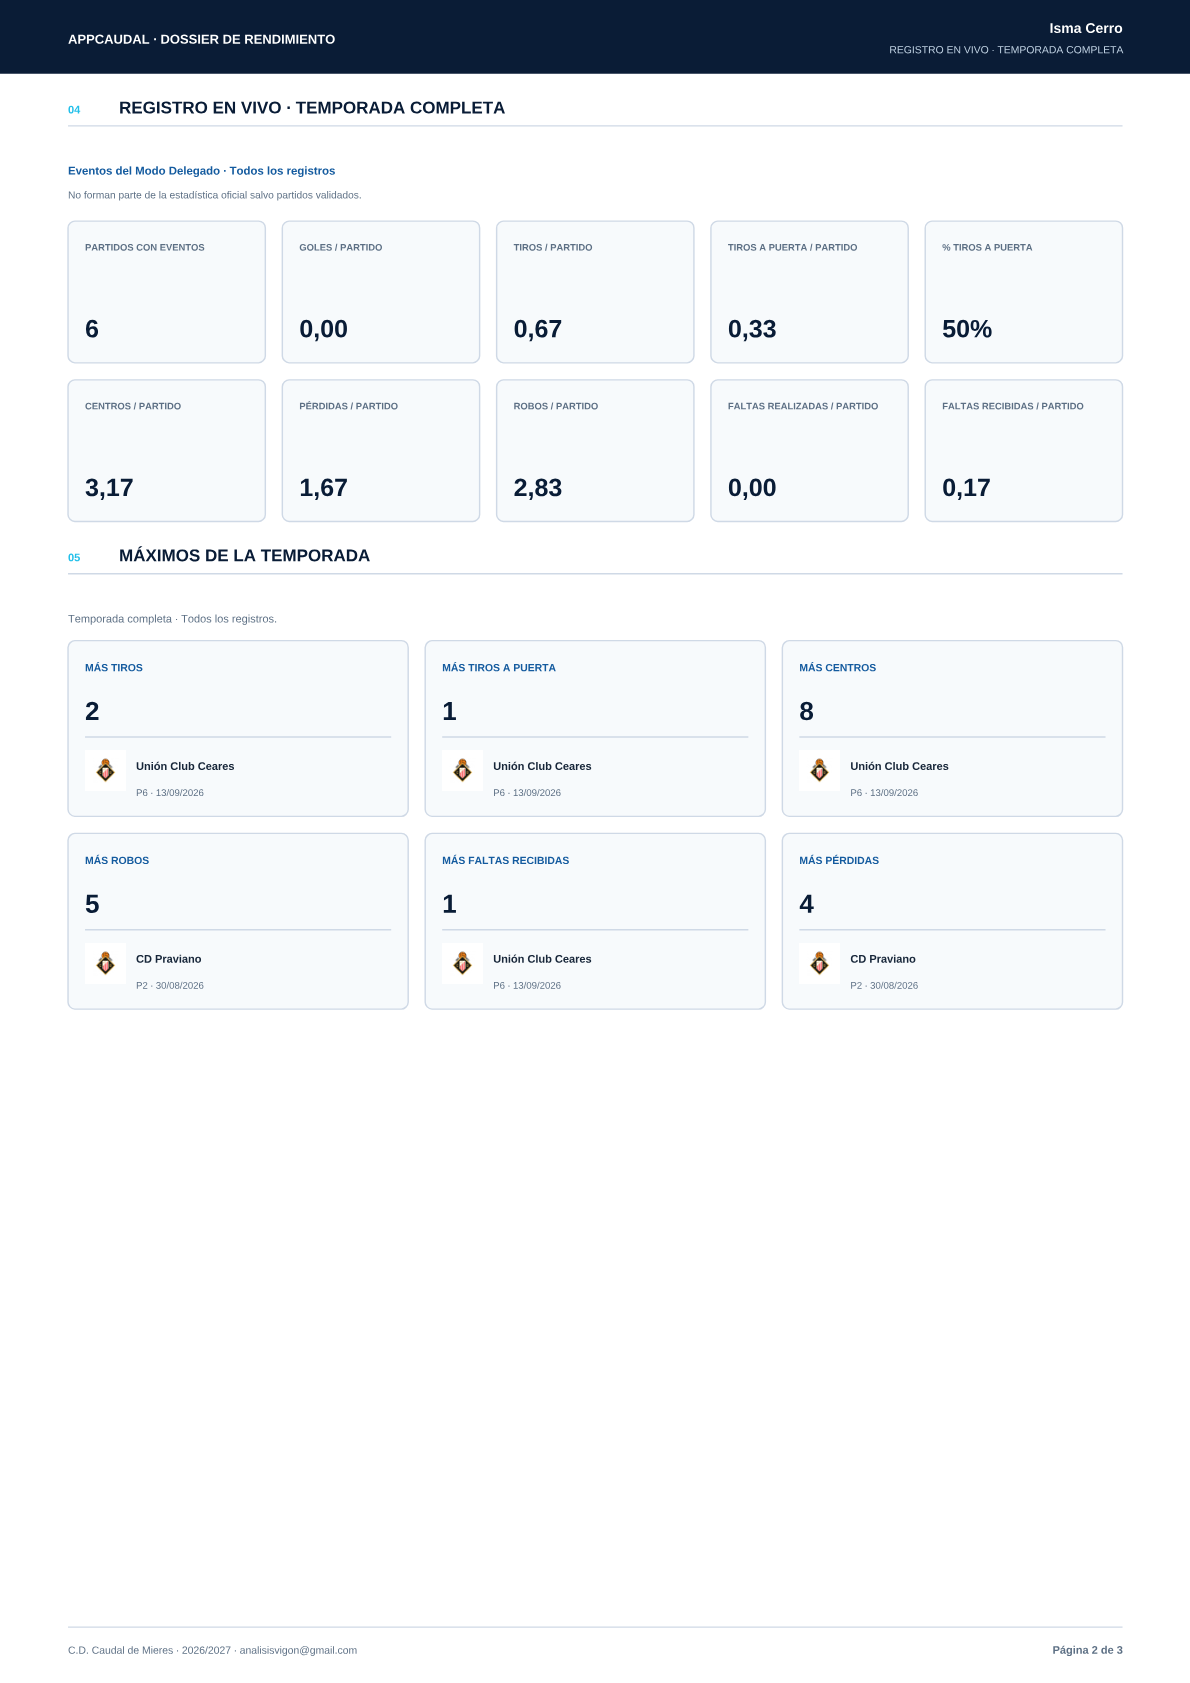
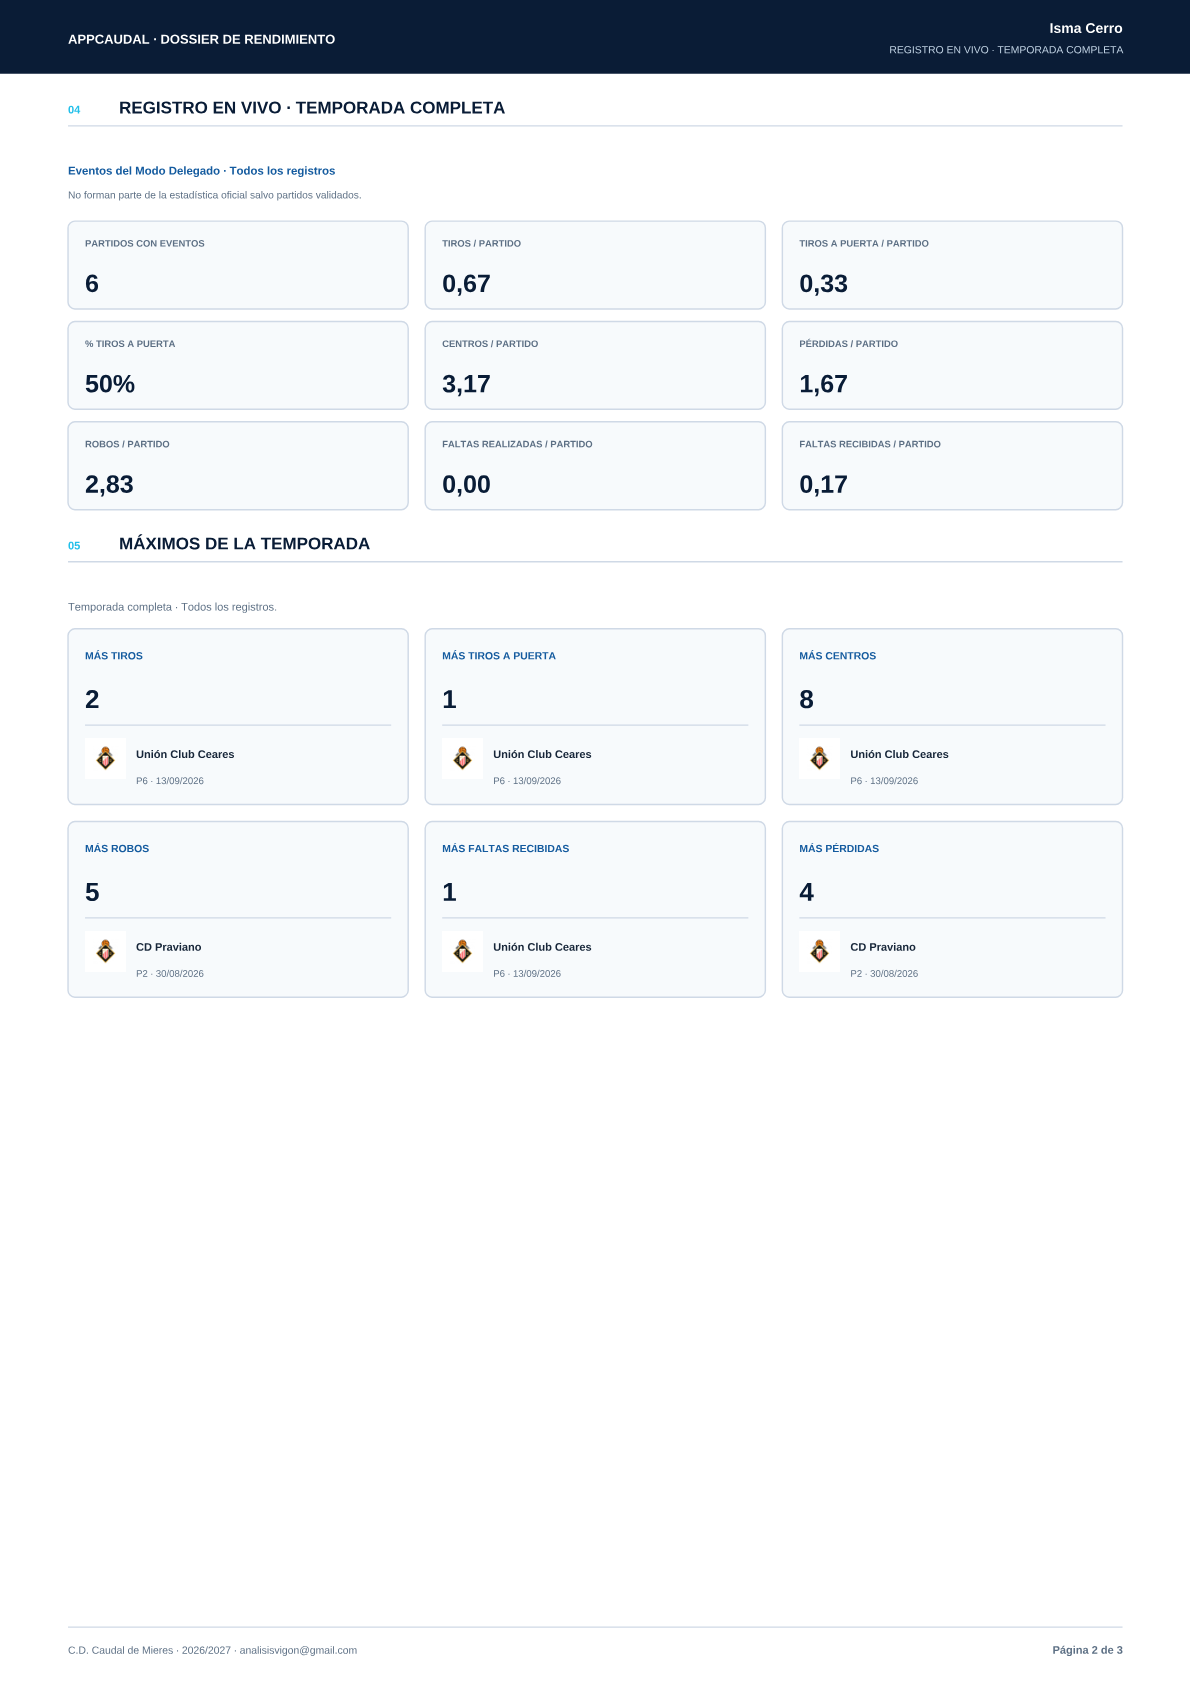
1

diff --git a/src/utils/playerProfilePdfExport.js b/src/utils/playerProfilePdfExport.js
@@ -481,7 +481,6 @@ const drawLiveSeason = (pdf, liveSeason, y, sectionNumber) => {
     .map((metric) => [metric.key, metric]));
   const cards = [
     { label: 'Partidos con eventos', value: number(liveSeason.matchesWithEvents), format: 'count' },
-    { ...metricValues.get('goalsPerMatch'), label: 'Goles / partido' },
     { ...metricValues.get('shotsPerMatch'), label: 'Tiros / partido' },
     { ...metricValues.get('shotsOnTargetPerMatch'), label: 'Tiros a puerta / partido' },
     { ...metricValues.get('shotAccuracyPercentage'), label: '% tiros a puerta' },
@@ -491,11 +490,11 @@ const drawLiveSeason = (pdf, liveSeason, y, sectionNumber) => {
     { ...metricValues.get('foulsCommittedPerMatch'), label: 'Faltas realizadas / partido' },
     { ...metricValues.get('foulsReceivedPerMatch'), label: 'Faltas recibidas / partido' },
   ];
-  const columns = 5;
+  const columns = 3;
   const gap = 3;
   const width = (CONTENT_WIDTH - gap * (columns - 1)) / columns;
-  const height = 25;
-  const rowGap = 3;
+  const height = 15.5;
+  const rowGap = 2.2;
   cards.forEach((card, index) => {
     const column = index % columns;
     const row = Math.floor(index / columns);
@@ -504,13 +503,13 @@ const drawLiveSeason = (pdf, liveSeason, y, sectionNumber) => {
     pdf.setFillColor(...COLORS.panel);
     pdf.setDrawColor(...COLORS.line);
     pdf.roundedRect(x, cardY, width, height, 1.2, 1.2, 'FD');
-    text(pdf, clean(card.label).toUpperCase(), x + 3, cardY + 5.2, { size: 4.7, style: 'bold', color: COLORS.muted, maxWidth: width - 6 });
+    text(pdf, clean(card.label).toUpperCase(), x + 3, cardY + 4.5, { size: 4.7, style: 'bold', color: COLORS.muted, maxWidth: width - 6 });
     const displayValue = card.format === 'count'
       ? number(card.value).toLocaleString('es-ES')
       : formatSeasonMetric(card.value, card.format);
-    singleLineText(pdf, displayValue, x + 3, cardY + 20.5, { size: 12.5, minSize: 10, style: 'bold', color: COLORS.navy, maxWidth: width - 6 });
+    singleLineText(pdf, displayValue, x + 3, cardY + 12.5, { size: 12.5, minSize: 10, style: 'bold', color: COLORS.navy, maxWidth: width - 6 });
   });
-  return y + height * 2 + rowGap + 7;
+  return y + height * 3 + rowGap * 2 + 7;
 };
 
 const drawSeasonMaximums = (pdf, maximums, y, sectionNumber, imageMap, addPage) => {
@@ -1112,7 +1111,22 @@ export const createPlayerProfilePdf = async ({
         registryScope: clean(report.liveSeason.registryScope) || 'validated',
         matchesWithEvents: number(report.liveSeason.matchesWithEvents),
         hasData: Boolean(report.liveSeason.hasData),
-        layout: { columns: 5, rows: 2, cards: 10 },
+        layout: {
+          columns: 3,
+          rows: 3,
+          cards: 9,
+          visibleMetricKeys: [
+            'matchesWithEvents',
+            'shotsPerMatch',
+            'shotsOnTargetPerMatch',
+            'shotAccuracyPercentage',
+            'crossesPerMatch',
+            'turnoversPerMatch',
+            'stealsPerMatch',
+            'foulsCommittedPerMatch',
+            'foulsReceivedPerMatch',
+          ],
+        },
         metrics: rows(report.liveSeason.metricGroups).flatMap((group) => rows(group.metrics).map((metric) => ({
           key: clean(metric.key),
           value: metric.value ?? null,

diff --git a/src/utils/playerDossierPrint.test.js b/src/utils/playerDossierPrint.test.js
@@ -360,7 +360,23 @@ assert.ok(fullSeason.pages > 2, 'N: una temporada completa pagina sin comprimir 
 assert.ok(fullSeason.pageSections.includes('REGISTRO EN VIVO · TEMPORADA COMPLETA'), 'el bloque de temporada queda después del historial y antes de la analítica');
 assert.equal(fullSeason.presentationAudit.liveSeason.window, 'full_scope');
 assert.equal(fullSeason.presentationAudit.liveSeason.registryScope, 'all_records');
-assert.deepEqual(fullSeason.presentationAudit.liveSeason.layout, { columns: 5, rows: 2, cards: 10 });
+assert.deepEqual(fullSeason.presentationAudit.liveSeason.layout, {
+  columns: 3,
+  rows: 3,
+  cards: 9,
+  visibleMetricKeys: [
+    'matchesWithEvents',
+    'shotsPerMatch',
+    'shotsOnTargetPerMatch',
+    'shotAccuracyPercentage',
+    'crossesPerMatch',
+    'turnoversPerMatch',
+    'stealsPerMatch',
+    'foulsCommittedPerMatch',
+    'foulsReceivedPerMatch',
+  ],
+});
+assert.equal(fullSeason.presentationAudit.liveSeason.layout.visibleMetricKeys.includes('goalsPerMatch'), false, 'Goles / partido se oculta sólo en la cuadrícula PDF');
 assert.equal(fullSeason.presentationAudit.liveSeason.matchesWithEvents, 6, 'el PDF conserva exactamente el denominador del presenter');
 assert.deepEqual(fullSeason.presentationAudit.liveSeason.metrics.map(({ key, value }) => [key, value]), [
   ['goalsPerMatch', 0], ['shotsPerMatch', 0.67], ['shotsOnTargetPerMatch', 0.33], ['shotAccuracyPercentage', 50],
